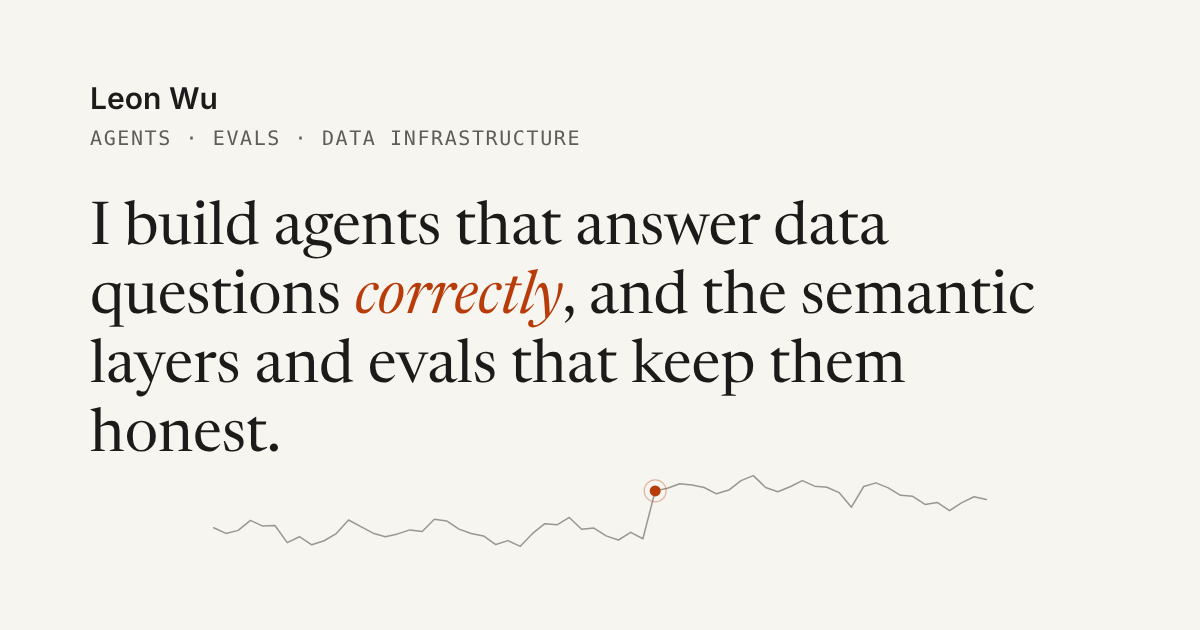
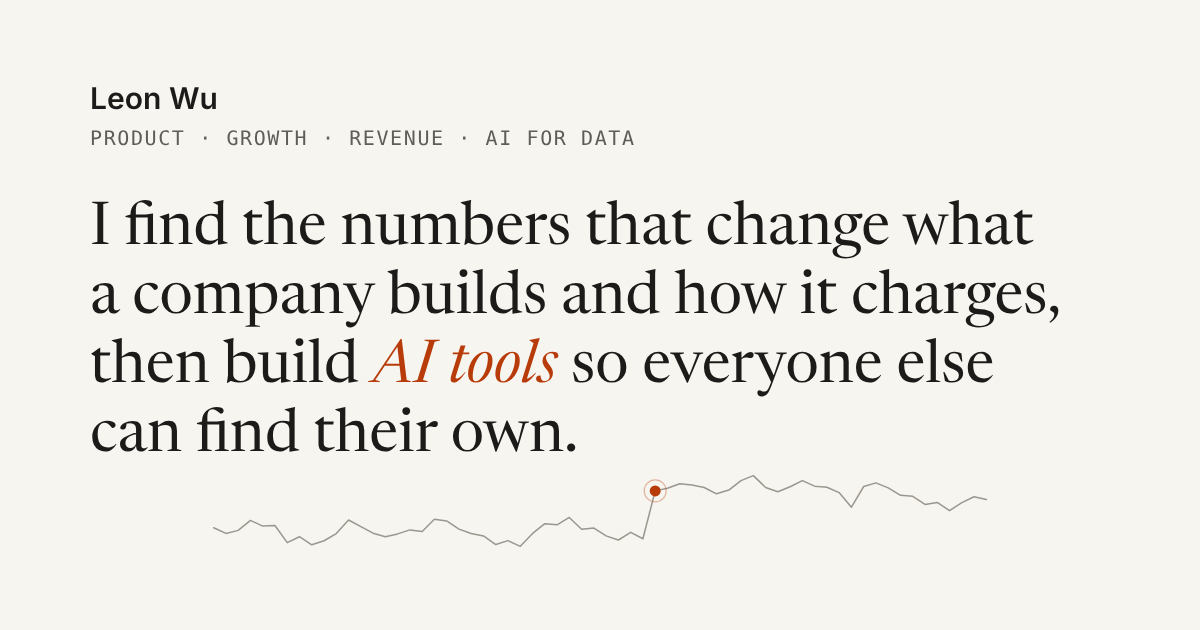
Lead with the day job: product, growth, monetization and finance data science
AI tools for data become the differentiator rather than the headline.

Claude-Session: https://claude.ai/code/session_01De9e6Q9Y3jMqxPCjAmYfKd

Changed region(s): [[0.0617, 0.3016, 0.8942, 0.7238], [0.0617, 0.2111, 0.5242, 0.2413]]

diff --git a/src/site.ts b/src/site.ts
@@ -3,9 +3,9 @@ import { FORECASTS } from './data/forecasts';
 
 export const SITE = {
   name: 'Leon Wu',
-  title: 'Leon Wu · Data & AI engineer',
+  title: 'Leon Wu · Data Scientist',
   description:
-    'Leon Wu builds AI analysts and the data systems under them. Founding data scientist at Replit; previously Text-to-SQL and forecasting at Indeed.',
+    'Leon Wu is a data scientist working on product analytics, growth and monetization at Replit, who also builds AI tools for data. Previously finance data science at Indeed.',
   email: 'lw75251@gmail.com',
   github: 'https://github.com/lw75251',
   linkedin: 'https://www.linkedin.com/in/aleonwu/',
